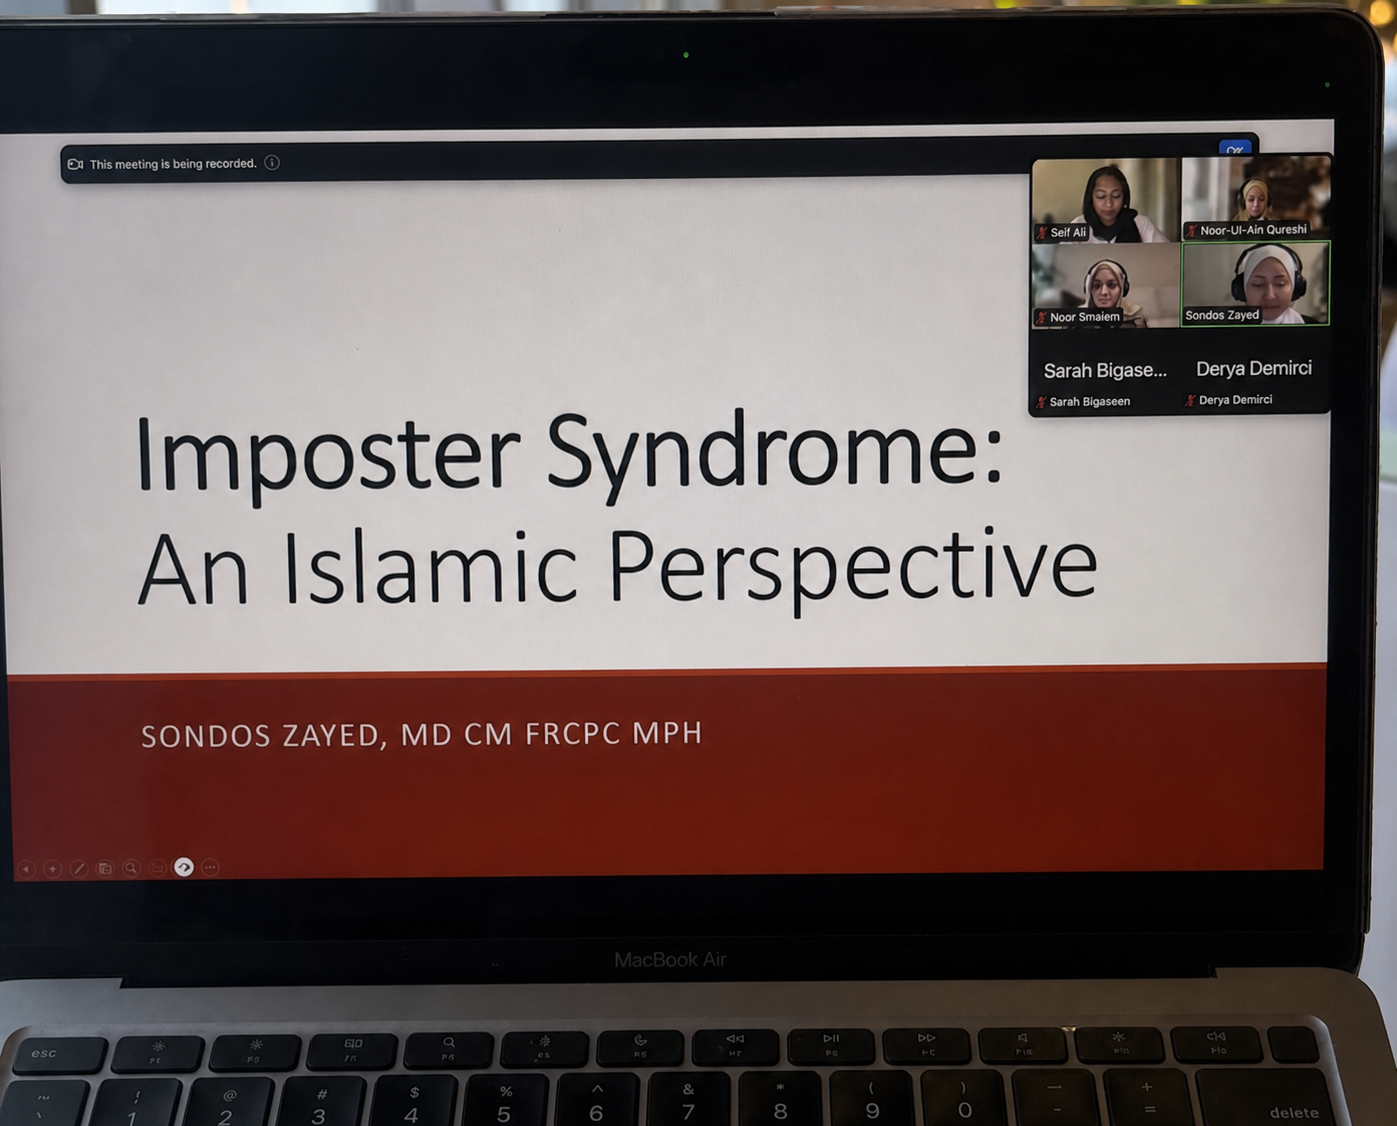
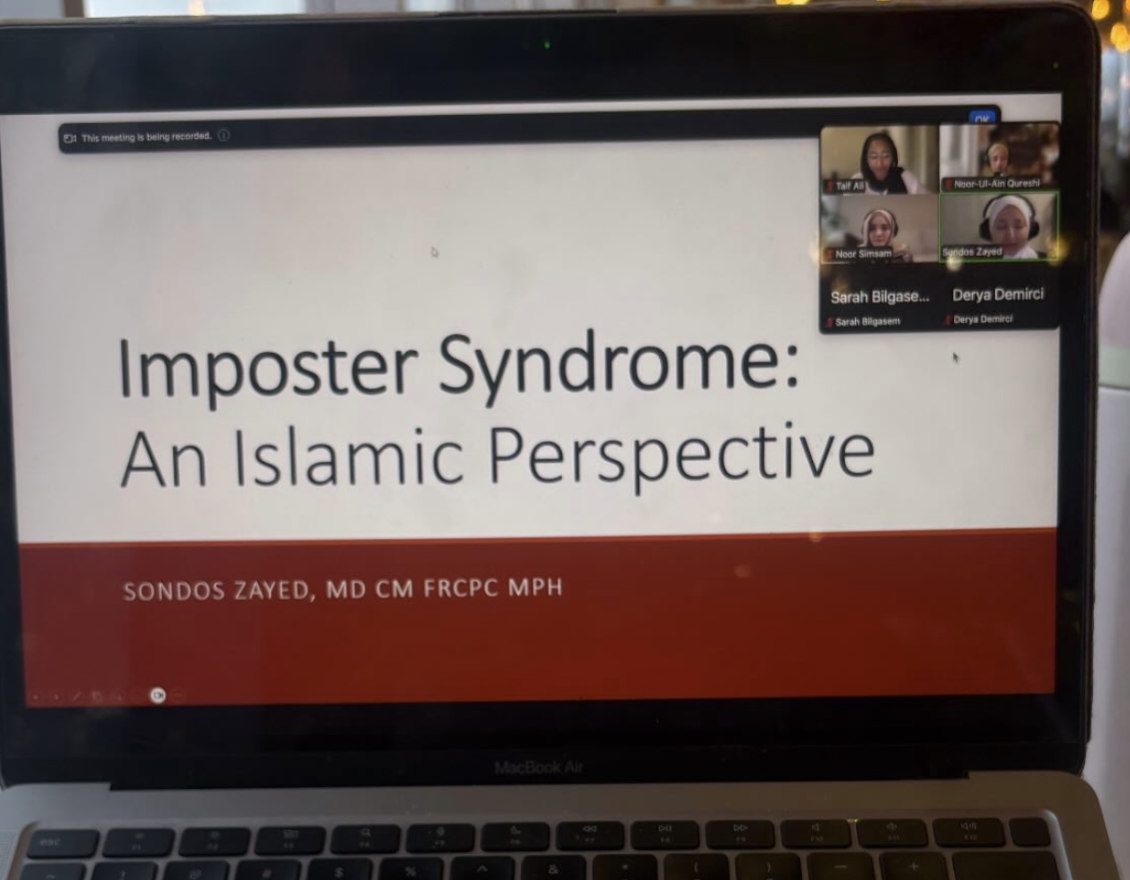
Update event images and team CTAs

Changed region(s): [[0.0, 0.0, 1.0, 1.0]]

diff --git a/assets/css/cmwim.css b/assets/css/cmwim.css
@@ -543,7 +543,7 @@ a.pillar b { margin-top: 1rem; color: var(--red); font-size: .85rem; }
 .chapter-jumps a.chapter-start span { width: auto; height: auto; border-radius: 0; background: none; transition: transform .18s var(--ease); }
 .chapter-jumps a.chapter-start:hover { background: var(--red-dark); border-color: var(--red-dark); }
 .chapter-jumps a.chapter-start:hover span { transform: translate(3px, -2px); }
-.team-directory-actions { display: flex; flex-wrap: wrap; align-items: center; gap: .75rem 1rem; margin-top: 1.25rem; }
+.team-directory-actions { display: flex; flex-direction: column; align-items: flex-start; gap: .75rem; margin-top: 1.25rem; }
 .team-directory-actions > span { color: var(--ink-mid); font-size: .95rem; }
 .team-directory-actions .act { text-align: center; }
 

diff --git a/events.html b/events.html
@@ -81,7 +81,7 @@
           </div>
         </div>
         <div class="archive" data-reveal style="--d:150ms">
-          <img class="event-natural" src="assets/img/events/mask-extenders.png" alt="Mask extenders provided for students wearing hijabs, turbans, and other spiritual head coverings." loading="lazy">
+          <img class="event-natural" src="assets/img/events/mask-extenders.jpg" alt="Mask extenders provided for students wearing hijabs, turbans, and other spiritual head coverings." loading="lazy">
           <div>
             <div class="meta">Campus Initiative — January 14, 2026</div>
             <h3>Hijab Mask Extenders in Anatomy Labs</h3>

diff --git a/team.html b/team.html
@@ -54,7 +54,7 @@
           <a href="#tmu"><span></span>Toronto Metropolitan</a>
           <a href="#calgary"><span></span>University of Calgary</a>
           <a href="#alberta"><span></span>University of Alberta</a>
-          <a class="chapter-start" href="contact.html">Start a chapter at your school <span aria-hidden="true">&#8599;</span></a>
+          <a href="contact.html">Start a chapter at your school <span aria-hidden="true">&#8599;</span></a>
         </nav>
         <div class="team-directory-actions">
           <span>Want to help shape CMWIM?</span>
